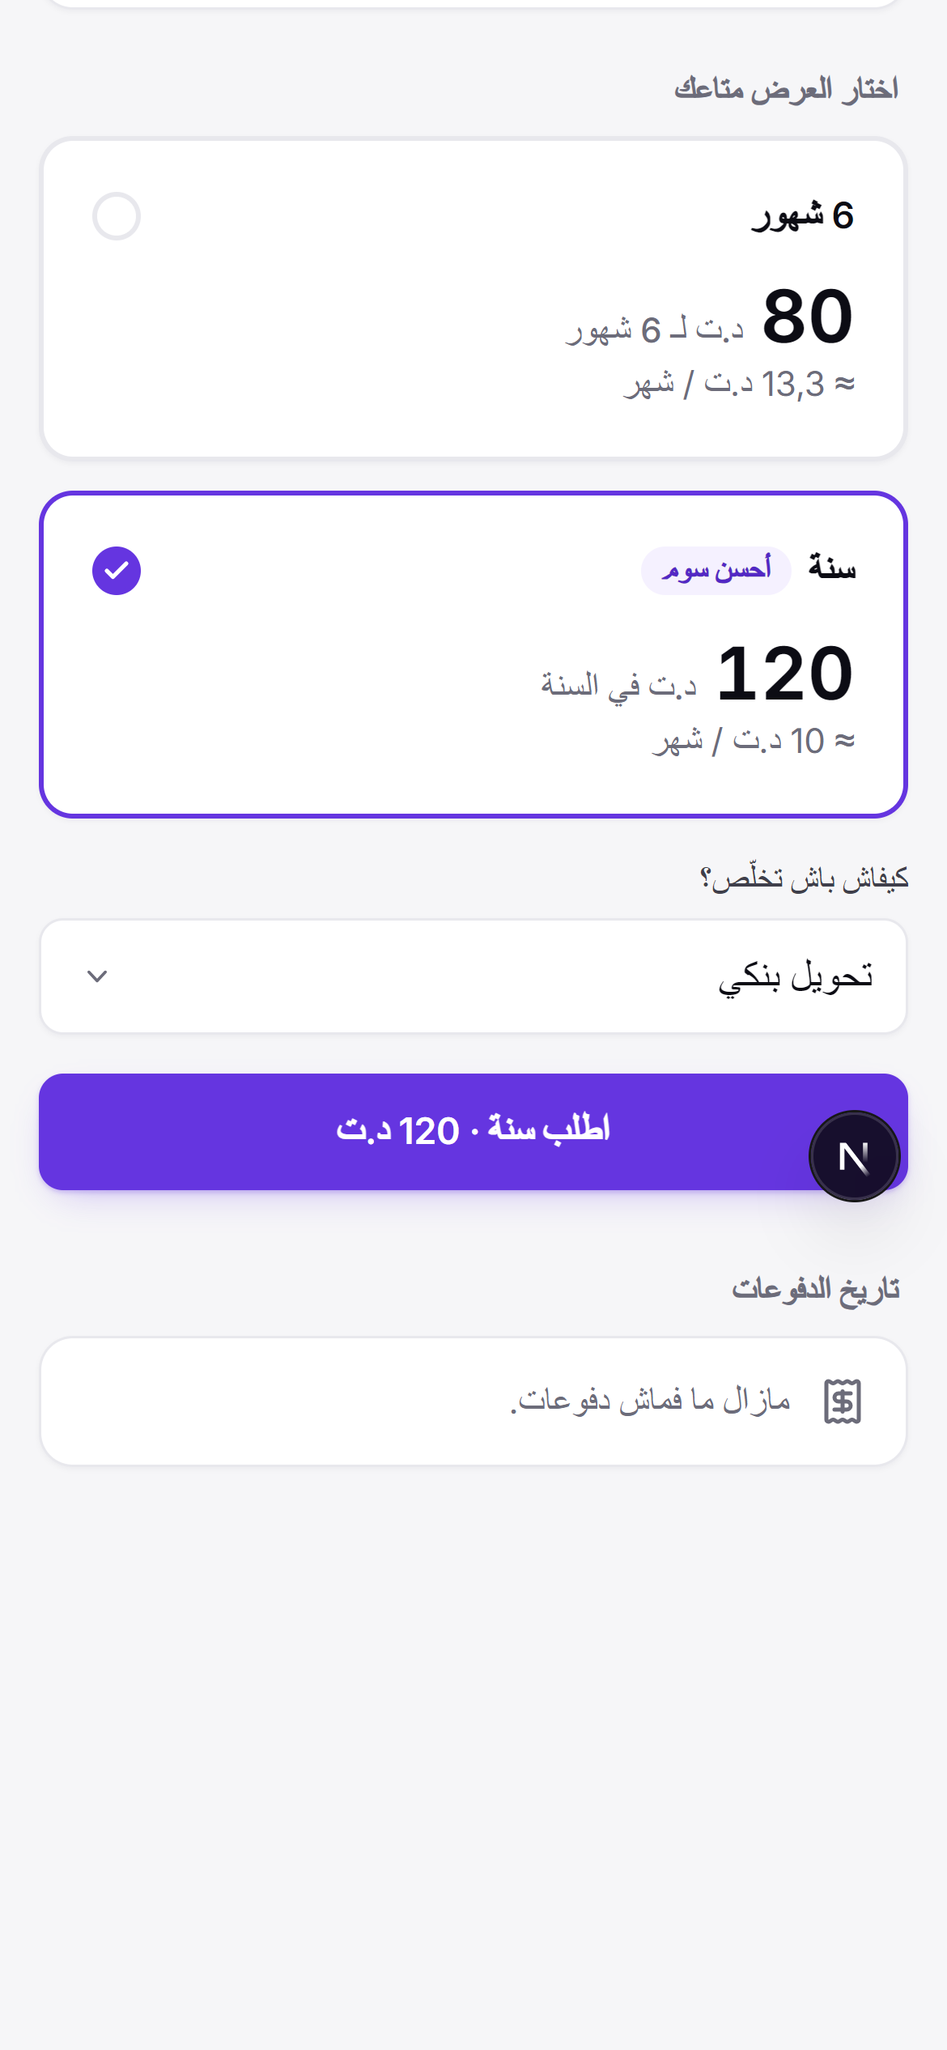
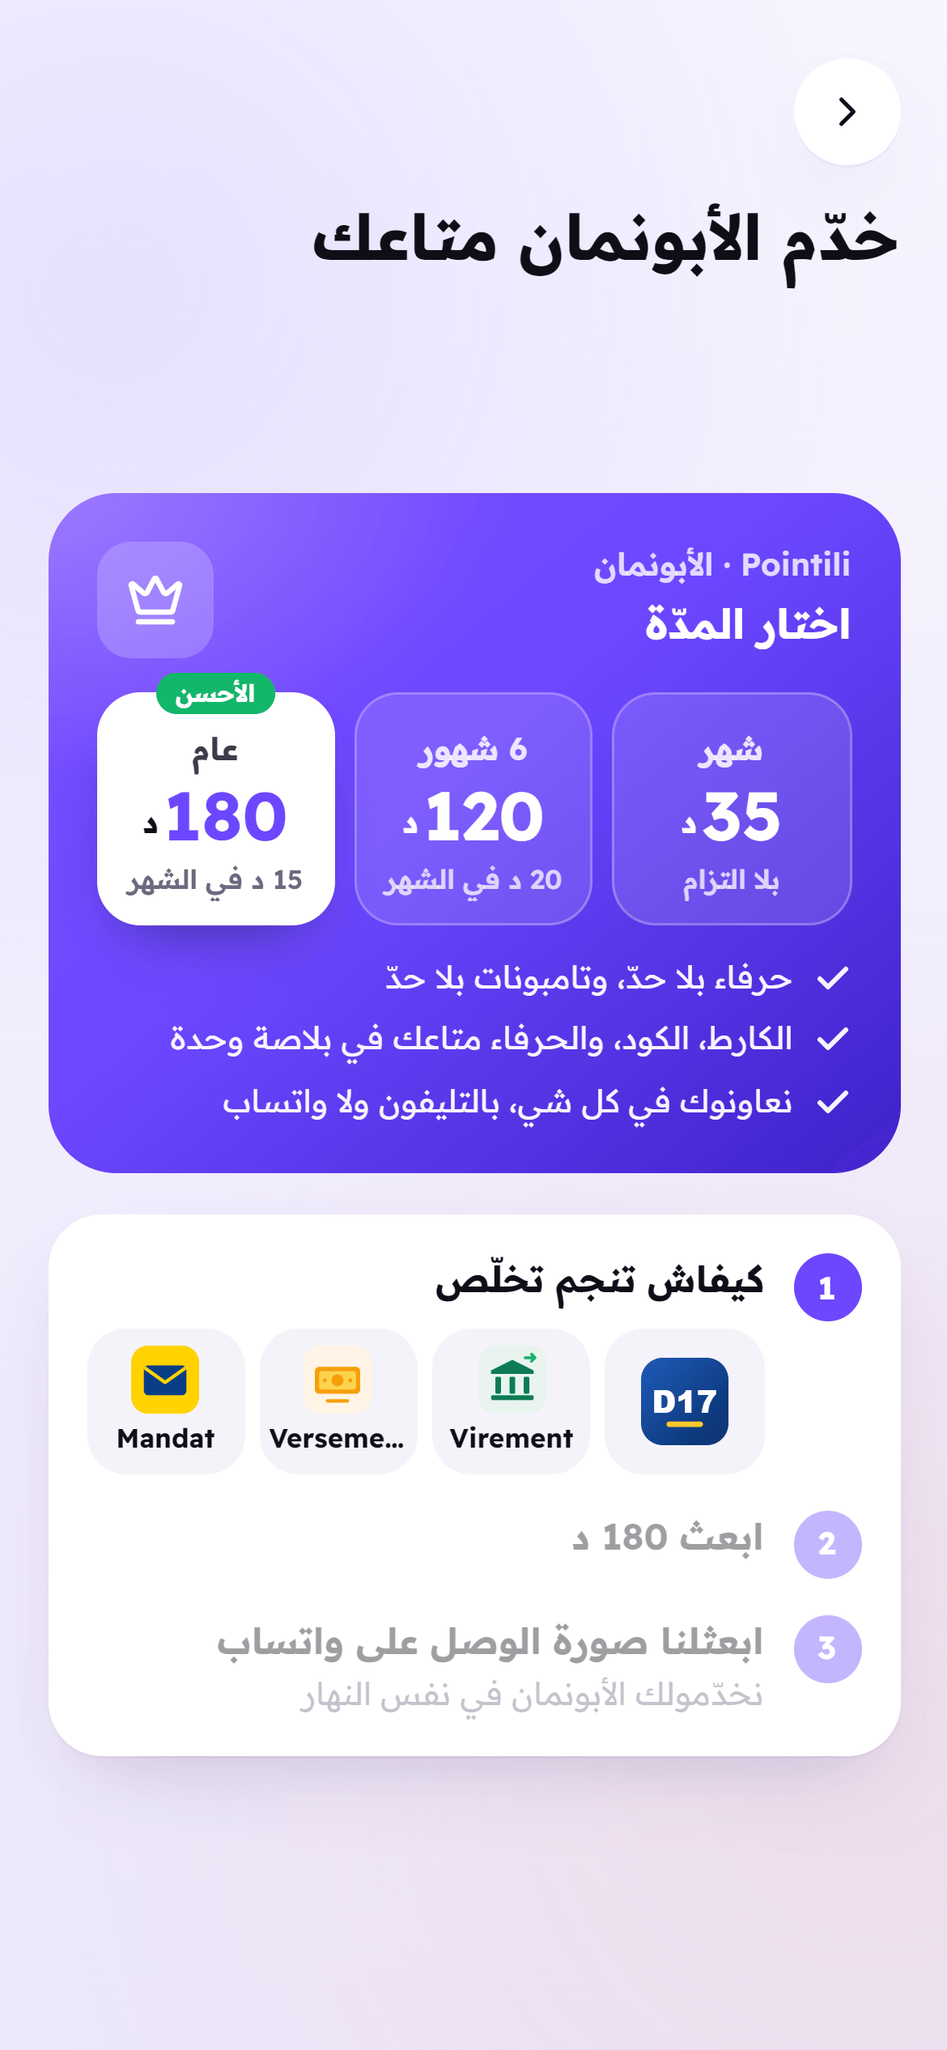
The old prices out of everywhere: the share picture says 180 a year, and the sales scripts and the posts say 35 / 120 / 180
The site's text already drew every price from lib/plans.ts (35 a month, 120 for
six months, 180 a year). What still said the old offer (120 a year, «10 a month»,
80 for six months, «3 months more») was what no code reads:

- public/og.jpg, the picture every pointili.online link shows in a chat, had
  «120 د في العام» baked in. Redrawn as og-v2.jpg — the same picture, its chip
  saying «180 د في العام» in the same pill and type — and a new name, since chats
  keep a picture by its address; /og.jpg now leads to it.
- social/business: the DM playbook, the CRM's reply buttons (both pages) and the
  sales call: «180 dt fel 3am, ya3ni 15 dt fel chhar, wala 120 dt l 6 chhour, wala
  35 dt fel chhar»; the close «a9al men 500 millime fil nhar» (a coffee a week no
  longer holds) and «2 chhour zeyda»; the never-say rule is now «15 dt fel chhar»
  alone (the year divided by 12, not the month at 35).
- social/carousels: every post that priced Pointili (c6, c10, c14, c21, c24, c26,
  c43) at 180 / 120 / 35, the payback sums redone at 15 a month (10 coffees at
  1.5), the price post's phone showing today's pay page (screens/owner-billing-
  plans.png, filmed on the local database), and three plans side by side in the
  template.

diff --git a/social/business/sales-call.html b/social/business/sales-call.html
@@ -218,7 +218,7 @@
     <section id="close">
       <div class="stage"><span class="n">05</span><span class="t">el lahdha el mohemma</span></div>
       <h2>El close: el soum, w sou2el b zouz ekhtiyarat</h2>
-      <div class="say">«El abonnement 120 dinar fil 3am, ya3ni 10 dinar fil chhar. A9al men 9ahwa fil jem3a. W ken tkhalles 9bal ma youfa el trial, tzidek 3 chhour. Tkhalles b D17 wala b virement?»</div>
+      <div class="say">«El abonnement 180 dinar fil 3am, ya3ni 15 dinar fil chhar, a9al men 500 millime fil nhar. W ken tkhalles 9bal ma youfa el trial, tzidek 2 chhour. Tkhalles b D17 wala b virement?»</div>
       <span class="hush">⏸ Oskot. Ma tzid 7atta kelma 7atta yjawbek.</span>
       <h3>Ken 9al D17 / virement</h3>
       <div class="say">«Behi, nab3athlek tawa el numéro 3al WhatsApp, w awel ma yousel el wasl n'activi lek el 3am fi nafs el nhar.»</div>
@@ -245,7 +245,7 @@
         <li><b>Sou2el wa7ed fi mara</b><span>W esma3 el jaweb lel e5er.</span></li>
         <li><b>Kelmétou howa</b><span>El 7rif, el kadou, el 7anout. Mouch kelmét technique.</span></li>
         <li><b>Ba3d el soum, oskot</b><span>Elli ye7ki loul ye5sser.</span></li>
-        <li><b>Ma t9oulech «hdiya» wala «bléch»</b><span>3al abonnement: «3 chhour zeyda» barka.</span></li>
+        <li><b>Ma t9oulech «hdiya» wala «bléch»</b><span>3al abonnement: «2 chhour zeyda» barka.</span></li>
         <li><b>Flous wala nhar + sé3a</b><span>Kol appel youfa b wa7da menhom.</span></li>
         <li><b>Ma tchar7ch el app kemla</b><span>Ken elli y7ell mochkltou howa.</span></li>
       </ul>
@@ -288,7 +288,7 @@
 
   // objections
   const OBJ = [
-    ["«Ghalia»", "«Mafhoum. 10 dinar fil chhar, ya3ni ken 7rif wa7ed zeyed yarja3 marten fil chhar, khlast. Chouf el trial: ken ma jebtlekch 7rif zeyed, ma tkhallesch.»"],
+    ["«Ghalia»", "«Mafhoum. 15 dinar fil chhar ki tkhalles el 3am, ya3ni ken 7rif wa7ed zeyed yarja3 marten fil chhar, khlast. Chouf el trial: ken ma jebtlekch 7rif zeyed, ma tkhallesch.»"],
     ["«Nkhammem w nkalmek»", "«Behi. Chnoua bidhabt t7eb tkhammem fih: el soum wala kifech te5dem?»", "El sbab el 7a9i9i yetla3, w jawbou 3lih."],
     ["«El 7rif ma y7ebbch ysobb application»", "«Ma ysobb chay. Ysakani el code b camera mta3 téléphonou, w yetla3lou el carte direct.»"],
     ["«Ma 3andich wa9t»", "«Ma t7tajch wa9t: el 7rif ysakani wa7dou. Enti t7ott el code 3al counter mara wa7da.»"],

diff --git a/social/business/crm/replies-web.html b/social/business/crm/replies-web.html
@@ -148,7 +148,7 @@
   <b>عمرك ما تقولها، مهما سألوك</b>
   <ul>
     <li><s class="lat">tjarrab b bilech</s> — ما فماش تجربة بالفاش</li>
-    <li><s class="lat">10 dt fel chhar</s> وحدو، كي لو كان فمّة أبونمون بالشهر</li>
+    <li><s class="lat">15 dt fel chhar</s> وحدو: هاذا العام مقسوم على 12، والشهر وحدو بـ 35</li>
     <li><s class="lat">bech tzid X client</s> — عمرك ما توعد بنتيجة</li>
     <li><s class="lat">na3tik téléphone b prix el achat</s></li>
     <li><s class="lat">ken 3andek zouz locaux na3mlek remise</s></li>
@@ -174,9 +174,9 @@
     {
       t: "السوم", hint: "جواب واحد، ونفس الأرقام ديما",
       s: [
-        ["السوم", "120 dt fel 3am, ya3ni 10 dt fel chhar. wala 80 dt l 6 chhour.\ncash wala D17."],
-        ["السوم + شنوة داخل فيه", "120 dt fel 3am wala 80 dt l 6 chhour.\nel clients mte3ek lkol yesta3mlouha, w kol chay dakhel fel prix. tkhalles b virement, D17 wala cash."],
-        ["«غالي»", "nafham. ama 7seb m3aya: client wa7ed yerja3 mara zeyda fel chhar, 3malt el 10 dt.\nel be9i kol rib7."],
+        ["السوم", "180 dt fel 3am, ya3ni 15 dt fel chhar. wala 120 dt l 6 chhour, wala 35 dt fel chhar.\ncash wala D17."],
+        ["السوم + شنوة داخل فيه", "180 dt fel 3am, 120 dt l 6 chhour wala 35 dt fel chhar.\nel clients mte3ek lkol yesta3mlouha, w kol chay dakhel fel prix. tkhalles b virement, D17 wala cash."],
+        ["«غالي»", "nafham. ama 7seb m3aya: client wa7ed yerja3 mara zeyda fel chhar, 3malt el 15 dt.\nel be9i kol rib7."],
       ],
     },
     {

diff --git a/social/business/crm/replies.html b/social/business/crm/replies.html
@@ -183,7 +183,7 @@
   <b>عمرك ما تقولها، مهما سألوك</b>
   <ul>
     <li><s class="lat">tjarrab b bilech</s> — ما فماش تجربة بالفاش</li>
-    <li><s class="lat">10 dt fel chhar</s> وحدو، كي لو كان فمّة أبونمون بالشهر</li>
+    <li><s class="lat">15 dt fel chhar</s> وحدو: هاذا العام مقسوم على 12، والشهر وحدو بـ 35</li>
     <li><s class="lat">bech tzid X client</s> — عمرك ما توعد بنتيجة</li>
     <li><s class="lat">na3tik téléphone b prix el achat</s></li>
     <li><s class="lat">ken 3andek zouz locaux na3mlek remise</s></li>
@@ -209,9 +209,9 @@
     {
       t: "السوم", hint: "جواب واحد، ونفس الأرقام ديما",
       s: [
-        ["السوم", "120 dt fel 3am, ya3ni 10 dt fel chhar. wala 80 dt l 6 chhour.\ncash wala D17."],
-        ["السوم + شنوة داخل فيه", "120 dt fel 3am wala 80 dt l 6 chhour.\nel clients mte3ek lkol yesta3mlouha, w kol chay dakhel fel prix. tkhalles b virement, D17 wala cash."],
-        ["«غالي»", "nafham. ama 7seb m3aya: client wa7ed yerja3 mara zeyda fel chhar, 3malt el 10 dt.\nel be9i kol rib7."],
+        ["السوم", "180 dt fel 3am, ya3ni 15 dt fel chhar. wala 120 dt l 6 chhour, wala 35 dt fel chhar.\ncash wala D17."],
+        ["السوم + شنوة داخل فيه", "180 dt fel 3am, 120 dt l 6 chhour wala 35 dt fel chhar.\nel clients mte3ek lkol yesta3mlouha, w kol chay dakhel fel prix. tkhalles b virement, D17 wala cash."],
+        ["«غالي»", "nafham. ama 7seb m3aya: client wa7ed yerja3 mara zeyda fel chhar, 3malt el 15 dt.\nel be9i kol rib7."],
       ],
     },
     {

diff --git a/v2/next.config.ts b/v2/next.config.ts
@@ -26,6 +26,9 @@ const nextConfig: NextConfig = {
       // the install link (app/app) under the words people type when they half-remember it
       { source: "/install", destination: "/app", permanent: false },
       { source: "/installer", destination: "/app", permanent: false },
+      // the share picture said «120 د في العام» until 16 Nov 2026: it took a new name with the new price
+      // (chats keep a picture by its address), and the old address shows the new one
+      { source: "/og.jpg", destination: "/og-v2.jpg", permanent: false },
     ];
   },
   async headers() {
@@ -44,7 +47,7 @@ const nextConfig: NextConfig = {
       { source: "/clips/:path*", headers: [{ key: "Cache-Control", value: "public, max-age=31536000, immutable" }] },
       // the 3D icons, the front door's pictures, the news' pictures, the mark and the app's icons: a month in the
       // phone, then asked again quietly (they were asked again on every page). A picture changed takes a new name.
-      ...["/3d/:path*", "/tn/:path*", "/news/:path*", "/brand-mark.svg", "/icon-:size(192|512).png", "/icon-maskable-:size(192|512).png", "/og.jpg"].map((source) => ({
+      ...["/3d/:path*", "/tn/:path*", "/news/:path*", "/brand-mark.svg", "/icon-:size(192|512).png", "/icon-maskable-:size(192|512).png", "/og-v2.jpg"].map((source) => ({
         source,
         headers: [{ key: "Cache-Control", value: "public, max-age=2592000, stale-while-revalidate=604800" }],
       })),

diff --git a/social/carousels/template.html b/social/carousels/template.html
@@ -238,6 +238,16 @@
   .plan .price span { font-size: 40px; font-weight: 700; color: var(--ink); }
   .plan .period { margin-top: 10px; font-size: 34px; color: var(--muted); }
   .plan .month { margin-top: 30px; padding-top: 26px; border-top: 2px solid #eee; font-size: 36px; font-weight: 700; color: var(--violet); unicode-bidi: plaintext; }
+  /* three plans (a month, six months, a year — 7 Nov 2026): the same cards, a size smaller to sit side by side */
+  .plans:has(> .plan:nth-child(3)) { left: 44px; right: 44px; gap: 18px; }
+  .plans:has(> .plan:nth-child(3)) .plan { padding: 46px 14px 34px; border-radius: 38px; }
+  .plans:has(> .plan:nth-child(3)) .plan .tag { font-size: 26px; padding: 9px 20px; }
+  .plans:has(> .plan:nth-child(3)) .plan .pname { font-size: 36px; }
+  .plans:has(> .plan:nth-child(3)) .plan .price { gap: 8px; }
+  .plans:has(> .plan:nth-child(3)) .plan .price b { font-size: 92px; }
+  .plans:has(> .plan:nth-child(3)) .plan .price span { font-size: 32px; }
+  .plans:has(> .plan:nth-child(3)) .plan .period { font-size: 29px; }
+  .plans:has(> .plan:nth-child(3)) .plan .month { margin-top: 24px; padding-top: 22px; font-size: 29px; }
   .plans-slide .note { position: absolute; top: 1010px; left: 72px; right: 72px; text-align: center; font-size: 36px; color: var(--body); font-weight: 500; }
 
   /* ── equal: a price next to everyday things ─────────────────────────── */

diff --git a/v2/app/pour/[slug]/page.tsx b/v2/app/pour/[slug]/page.tsx
@@ -18,7 +18,7 @@ export async function generateMetadata({ params }: { params: Promise<{ slug: str
     title: `Carte de fidélité pour ${n.fr} en Tunisie — كارط فيديليتي ${n.tn}`,
     description: `Carte de fidélité digitale pour ${n.fr} en Tunisie : vos clients cumulent des tampons sur leur téléphone, sans application, et reçoivent ${f.giftsFr[0]} après ${f.goal} visites. ${PRICE_MONTH} DT par mois ou ${PRICE_YEAR} DT par an. — كارط فيديليتي ${n.tn} في تونس.`,
     alternates: { canonical: `${SITE}/pour/${n.slug}` },
-    openGraph: { title: `Carte de fidélité pour ${n.fr} — Pointili Tunisie`, url: `${SITE}/pour/${n.slug}`, images: [{ url: "/og.jpg", width: 1200, height: 630 }] },
+    openGraph: { title: `Carte de fidélité pour ${n.fr} — Pointili Tunisie`, url: `${SITE}/pour/${n.slug}`, images: [{ url: "/og-v2.jpg", width: 1200, height: 630 }] },
   };
 }
 

diff --git a/v2/app/layout.tsx b/v2/app/layout.tsx
@@ -47,9 +47,9 @@ export const metadata: Metadata = {
     url: SITE,
     locale: "ar_TN",
     alternateLocale: ["fr_TN"],
-    images: [{ url: "/og.jpg", width: 1200, height: 630, alt: "Pointili — carte de fidélité digitale en Tunisie" }],
+    images: [{ url: "/og-v2.jpg", width: 1200, height: 630, alt: "Pointili — carte de fidélité digitale en Tunisie" }],
   },
-  twitter: { card: "summary_large_image", title: "Pointili — carte de fidélité digitale en Tunisie", description, images: ["/og.jpg"] },
+  twitter: { card: "summary_large_image", title: "Pointili — carte de fidélité digitale en Tunisie", description, images: ["/og-v2.jpg"] },
   category: "business",
   appleWebApp: { capable: true, title: "Pointili", statusBarStyle: "default" },
   formatDetection: { telephone: false },

diff --git a/v2/app/app/page.tsx b/v2/app/app/page.tsx
@@ -21,7 +21,7 @@ export const metadata: Metadata = {
     title: t.installApp,
     description: t.installAppHint,
     url: LINK,
-    images: [{ url: "/og.jpg", width: 1200, height: 630, alt: "Pointili" }],
+    images: [{ url: "/og-v2.jpg", width: 1200, height: 630, alt: "Pointili" }],
   },
 };
 

diff --git a/social/business/replies.md b/social/business/replies.md
@@ -63,7 +63,7 @@ El ma3loumet elli n7ebbou, bel tartib elli yjiw bih wa7adhom, **mouch lkol fi me
 - el cadeau ma yet3tach ken mol el local yconfirmi code el client fel comptoir.
 - clients bla limite, tampons bla limite.
 - ken tbaddel el 3adad wala el cadeau ba3d, elli 9a3din ylemmou ma yekhsrou chay.
-- 120 dt fel 3am (ya3ni 10 dt fel chhar) wala 80 dt l 6 chhour. Kol chay dekhel. Cash, D17 wala virement.
+- 180 dt fel 3am (ya3ni 15 dt fel chhar), 120 dt l 6 chhour, wala 35 dt fel chhar. Kol chay dekhel. Cash, D17 wala virement.
 - kol local 3andou compte w QR mte3ou.
 - l'installation ya3melha Saif fel local, fi nos se3a.
 - yelzemha internet. Kif yarja3, el code yarja3 wa7dou.
@@ -135,15 +135,15 @@ El démo fel comptoir, mouch fel DM: el client yscan-i b téléphonou w ychouf e
 **Objectif:** nrakkbou w nekhdhou el flous nhar el démo.
 
 - 9bal el visite, ken famma wa9t: `ken t7eb nrakkebha nhar el démo, 7adher: el cadeau elli t7eb ta3tih, logo ken 3andek, w téléphone 9dim lel comptoir`
-- el prix, marra wa7da: `120 dt fel 3am wala 80 dt l 6 chhour, cash wala D17 nhar l'installation`
-- fel comptoir, kif y9oul ey: na9tar7ou el 6 chhour b 80, el commitment el awel sghir, w el 3am yji fel renouvellement. Ken houwa y7eb el 3am direct, mrigel.
+- el prix, marra wa7da: `180 dt fel 3am, 120 dt l 6 chhour wala 35 dt fel chhar, cash wala D17 nhar l'installation`
+- fel comptoir, kif y9oul ey: na9tar7ou el 6 chhour b 120, el commitment el awel sghir, w el 3am yji fel renouvellement. Ken houwa y7eb el 3am direct, mrigel.
 - fel local: compte, carte b 3 sou2elet, QR fel comptoir 7ell, poster, awel tampons m3a clients 7a9i9iyin, w el jomla lel serveur «scanni w khoudh tampon».
 
 Khallas w el QR 7ell → STATE 6.
 
 ### STATE 5b · Installation à distance (ken barra el zone, wala y7ebha tawa)
 L'ad twa3ed «tba3thlna esm el local w el zone w el numro, w 7na njahzoulek el compte». Ya3ni famma nes bech yestannew compte, mouch visite. El tari9 mawjoud, ama b tartib:
-1. el flous 9bal: `ab3athli 80 dt b D17 wala virement 3la [numro/RIB], w kif yosol nrakkeblek el compte el youm`. 7atta compte ma yet7all 9bal el flous.
+1. el flous 9bal: `ab3athli 120 dt b D17 wala virement 3la [numro/RIB], w kif yosol nrakkeblek el compte el youm`. 7atta compte ma yet7all 9bal el flous.
 2. el mot de passe b téléphone, mouch b message: `n3aytlek 5 d9aye9 bech n7ottou el mot de passe m3ak`.
 3. nab3thou: el login, poster el comptoir (pdf), w video d9i9a kifech t7ell el QR fel téléphone mta3 el comptoir.
 4. nhar 3 w nhar 7 kima STATE 6, b WhatsApp.
@@ -171,10 +171,10 @@ Hedha y7ell ken Saif y9arrer ya3melha à distance. Ken le, el jaweb ybqa «tawa 
 
 Kol wa7da réponse w nsaktou. El next step yji fi message ekher ken yelzem.
 
-- **prix** → `120 dt fel 3am, ya3ni 10 dt fel chhar. wala 80 dt l 6 chhour. cash wala D17`
+- **prix** → `180 dt fel 3am, ya3ni 15 dt fel chhar. wala 120 dt l 6 chhour, wala 35 dt fel chhar. cash wala D17`
 - **chnowa dekhel?** → `carte tampons lel clients bla limite, el QR fel comptoir, compte mta3 el local, w l'installation na3melha ana`
 - **el client lezmou ysobb application?** → `le, 7atta application. camera téléphonou, numro w mot de passe marra wa7da, w yabda`
-- **ghali** → `10 dt fel chhar barka. ken carte wa7da tjiblek client yarja3 marra zeyda fel chhar, 9riba tkoun khlasetha. enti a3raf`
+- **ghali** → `15 dt fel chhar barka ki tkhalles el 3am. ken carte wa7da tjiblek client yarja3 marra zeyda fel chhar, 9riba tkoun khlasetha. enti a3raf`
 - **ma 3andich tablette** → `ay téléphone 9dim m3a chargeur yekhdem. ken ma 3andekch, nchouflek 7all`
 - **ynajem 7ad yghech?** → `el code yetbaddel ba3d kol scan, w kol code yekhdem marra wa7da barka. w el cadeau enti elli tconfirmih`
 - **w ken ye9ta3 l'internet?** → `ey yelzemha internet. kif yarja3, el code yarja3 wa7dou`
@@ -186,10 +186,10 @@ Kol wa7da réponse w nsaktou. El next step yji fi message ekher ken yelzem.
 - **kifech nkhalles?** → `cash nhar l'installation, wala D17 wala virement`
 - **3andi cartes carton** → `el carton yekhdem 7atta yensaha fel dar. hedhi fi téléphonou dima m3ah, w enti tchouf chkoun yarja3`
 - **3andi barcha clients** → `bahi mrigel. ken nhar t7eb tchouf chkoun fihom yarja3 kol nhar, ana hné`
-- **3andi zouz locaux** → `kol local QR w compte mte3ou, 120 lel wa7ed. nrakkebhom fi nafs el nhar`
+- **3andi zouz locaux** → `kol local QR w compte mte3ou, 180 lel wa7ed fel 3am. nrakkebhom fi nafs el nhar`
 - **arnaque / n'importe quoi** → `haha le. nji nwarrik fel comptoir mte3ek w enti t9arrer, ma tkhalles chay 9bal ma tchouf`
 - **ab3athli plus d'infos** → `el 7keya sahla: el client yscan-i el QR fel comptoir, yekhou tampon, w kif ykammel yekhou cadeau. el site pointili.online fih el explication, w ken t7eb nji nwarrik fel local`
-- **bel français formel** → français 9sir w insen: `bonjour, oui c'est une carte tampons dans le téléphone du client, sans application. 120 dt par an. je passe vous montrer au comptoir si vous voulez, vous êtes où?`
+- **bel français formel** → français 9sir w insen: `bonjour, oui c'est une carte tampons dans le téléphone du client, sans application. 180 dt par an, ou 35 dt par mois. je passe vous montrer au comptoir si vous voulez, vous êtes où?`
 - **3aytli / 3andkom numéro?** → `[numro]. 9oli wa9tech n3aytlek, el sbe7 wala el 3chiya`. Mkalma t9arreb akther men 10 messages.
 - **chkoun entouma? société?** → `startup tounsia, ana Saif elli 3amelha. ma famech société kbira wraha: ana elli nji nrakkeb, w ana elli njeweb`
 - **3andkom locaux ykhdmou biha?** (wa9t elli ma famech 7atta wa7ed) → `bdina tawa, enti men el lwela. w 3la hedha nrakkebha b yeddi w nab9a m3ak`. Kif ykounou clients 7a9i9iyin, nbaddlou el jaweb b esm local w tasswira. 3omrna ma n9oulou 3adad mouch s7i7.

diff --git a/social/carousels/PLAN.md b/social/carousels/PLAN.md
@@ -35,7 +35,7 @@ Le prix vient **après** la valeur (8e) : montré trop tôt, « 120 د.ت » arr
 | « الطوابع ما تضيعش » quand internet coupe : promesse vague qui laisse croire que ça marche hors ligne. | « يلزمها إنترنت. كي تقصّ، الكود يرجع وحدو. » |
 | « أوّل مرّة: حساب بنومرو التليفون » : oublie le mot de passe. | « نومرو التليفون وكلمة سر ». |
 | Libellé du bouton cadeau écrit de mémoire. | Vérifié dans l'app : 1er appui « استعمل الكادو », puis « ورّي الكود متاعي » tant que la demande attend. |
-| Calcul de rentabilité « الشهر يتخلّص في جمعة » : confond chiffre d'affaires et bénéfice. | Comparaison impossible à contester : « 10 د.ت في الشهر = 5 قهاوي ». |
+| Calcul de rentabilité « الشهر يتخلّص في جمعة » : confond chiffre d'affaires et bénéfice. | Comparaison impossible à contester : « 15 د.ت في الشهر على العام = 10 قهاوي ». |
 
 ### Langue
 | Défaut | Correction |
@@ -180,9 +180,9 @@ Légende : `hook` `photo` `screen` `text` `cta` · entre crochets : photo ou éc
 
 ### C6 · قدّاش تكلّف؟ — 8 slides
 1. `hook` [P8] **قدّاش تكلّف Pointili؟**
-3. `text` **بعدها: 120 د.ت للعام** — ولا 80 د.ت لـ 6 شهور
-4. `text` **يعني 10 د.ت في الشهر** — = 5 قهاوي ☕
-5. `text` **يكفي 5 حرفاء يرجعو مرّة زايدة في الشهر** — باش تغطّي الاشتراك
+3. `text` **بعدها: 180 د.ت للعام** — ولا 120 د.ت لـ 6 شهور، ولا 35 د.ت في الشهر
+4. `text` **على العام، يعني 15 د.ت في الشهر** — = 10 قهاوي ☕
+5. `text` **يكفي 10 حرفاء يرجعو مرّة زايدة في الشهر** — باش تغطّي الاشتراك
 6. `text` ✓ **كل شي داخل** — حرفاء بلا حدود · طوابع بلا حدود · الأرقام · كود الكونتوار
 7. `text` **تخلّص بالتحويل، D17 ولا كاش**
 8. `cta` **اختار العرض متاعك**
